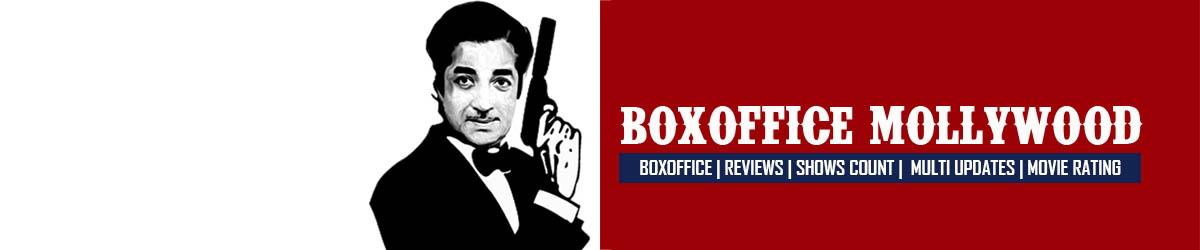
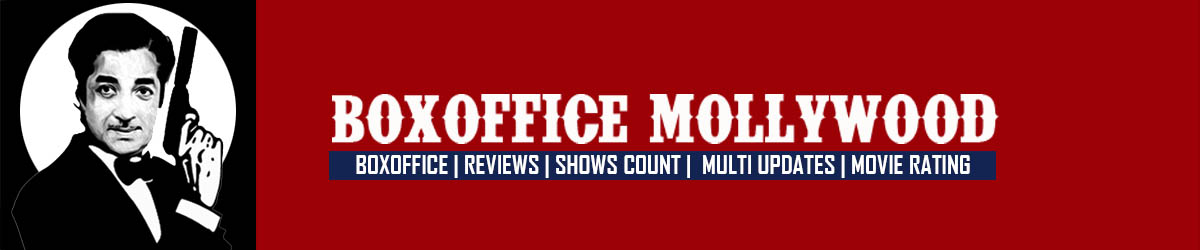
23

diff --git a/kbo/2017.html b/kbo/2017.html
@@ -57,7 +57,7 @@
 
 <div class="w3-container">
   <p class="a">A note to our viewers</p>
-  <p>This website is never intended to celebrate an actor or spread hate.Our aim is to publish movie collections as accurate as possible.For those people who trust promotional figures,you may not be happy with the figures we provide.Here,you wont find any kind of promotional figures of any movies,such as First Day Collection of Villain,Great Father,Mersal as such.This site is for people who want to know the actual collection without any exxageration,those people,please support us.Like our Facebook Page and Follow us on Twitter.</p>
+  <p>This website is never intended to celebrate an actor or spread hate.Our aim is to publish movie collections as accurate as possible.For those people who trust promotional figures,you may not be happy with the figures we provide.Here,you wont find any kind of promotional figures of any movies,such as First Day Collection of Villain,Great Father,Mersal as such.This site is for people who want to know the actual collection without any exageration,those people,please support us.Like our Facebook Page and Follow us on Twitter.</p>
 </div>
 
 <div class="w3-container">

diff --git a/index.html b/index.html
@@ -49,7 +49,7 @@
 </nav>
 
 
-<div>
+<div id="cover">
 <img src="/mbo/images/mbo_cover.jpg" class="img-responsive">
 </div>
 

diff --git a/style.css b/style.css
@@ -5,6 +5,11 @@
 }
 
 
+#cover{
+  margin-top: -20px;
+}
+
+
 .card {
     overflow: hidden;
     display: table;
